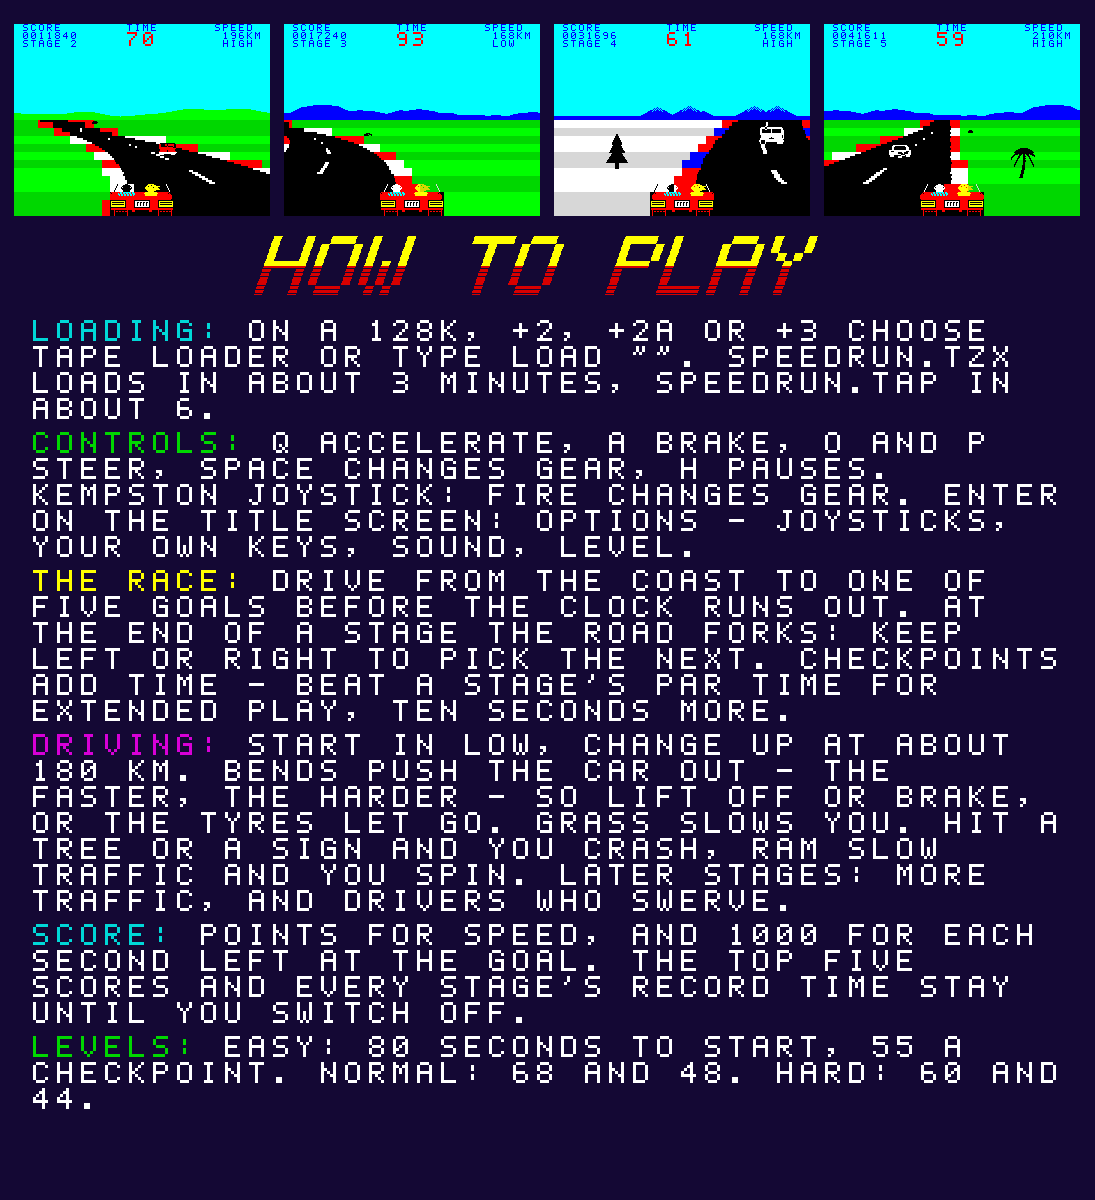
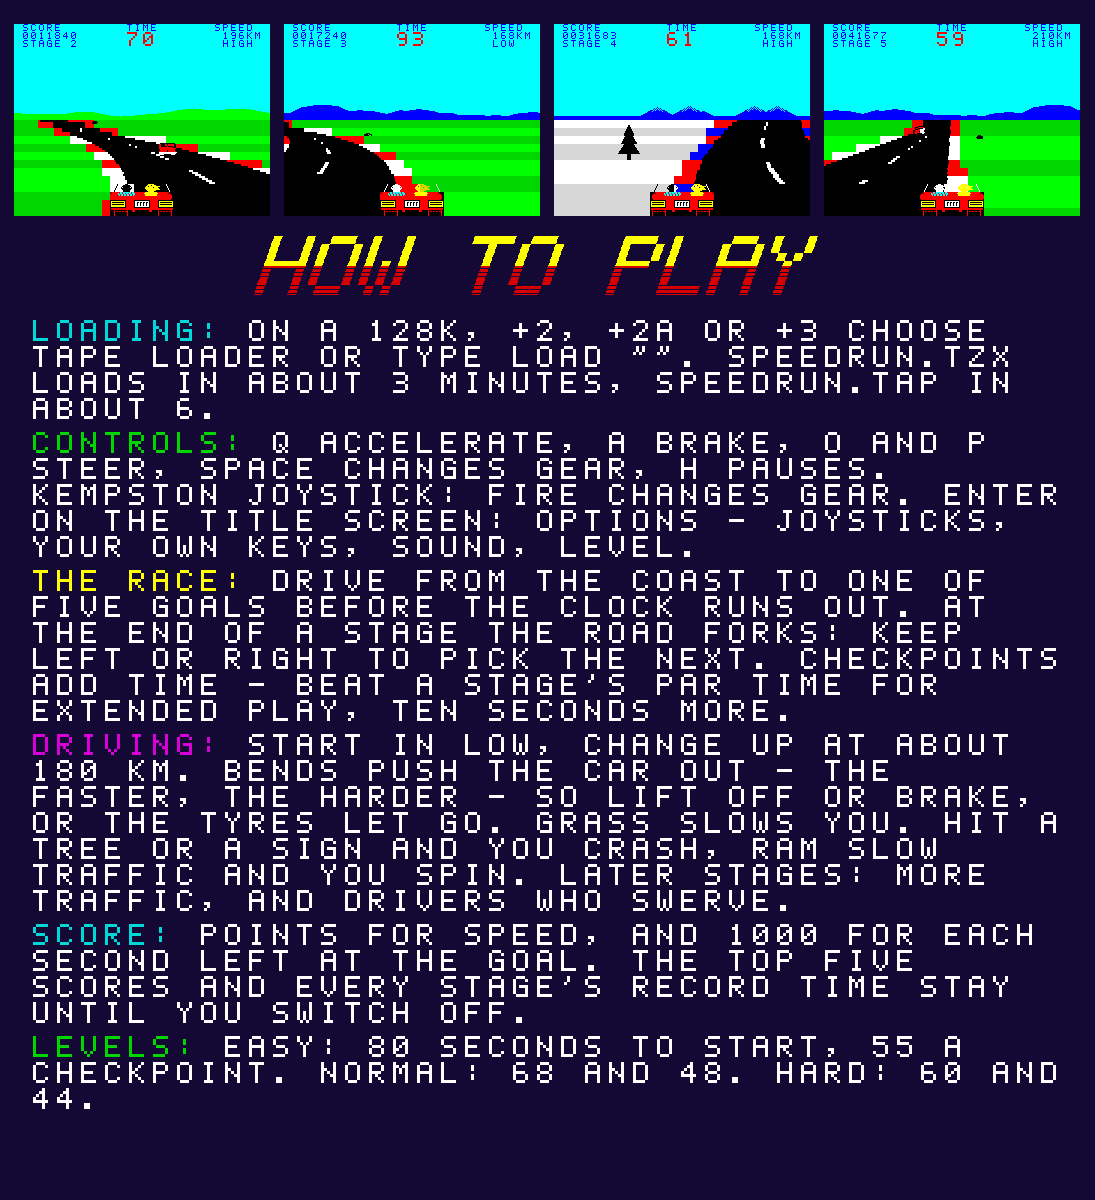
Tunnel: the way out shows only when near
Inside a tunnel the way out was drawn at the far road's end even while
the exit was beyond sight (at the horizon). Now the tunnel's lines go on
up to the horizon, dark, until the exit is within EXIT_SEE (1024 units,
a quarter of the view), and only then is the way out drawn.

Claude-Session: https://claude.ai/code/session_0131gGbiN6b48386PumsB65w

Changed region(s): [[0.7452, 0.0925, 0.9936, 0.185], [0.4968, 0.0925, 0.6521, 0.185], [0.6831, 0.0925, 0.7142, 0.1233]]

diff --git a/PLAN.md b/PLAN.md
@@ -503,7 +503,10 @@ and `tools/hotspots.py` give exact T-state breakdowns from the emulator.
   drawn. After the road, `DrawPortal` finds the screen line where the road
   meets the tunnel and paints, in attributes, five runs per row sized from
   the road's edges there: approaching, a rock face, a yellow arch and the
-  dark mouth; inside, the sky round the far road and the ceiling round that.
+  dark mouth (dark on its road rows too, so it shows from afar); inside, the
+  sky round the far road and the ceiling round that - but only once the way
+  out is within `EXIT_SEE` (1024): further, the tunnel runs on into the dark
+  up to the horizon.
   Road rows it paints are marked (their cached band set to 1) so the road
   redraws them. About 7% off the frame rate while a tunnel is in view. Room
   came from drawing the timer's big digits from the font (`PrintBig`,
